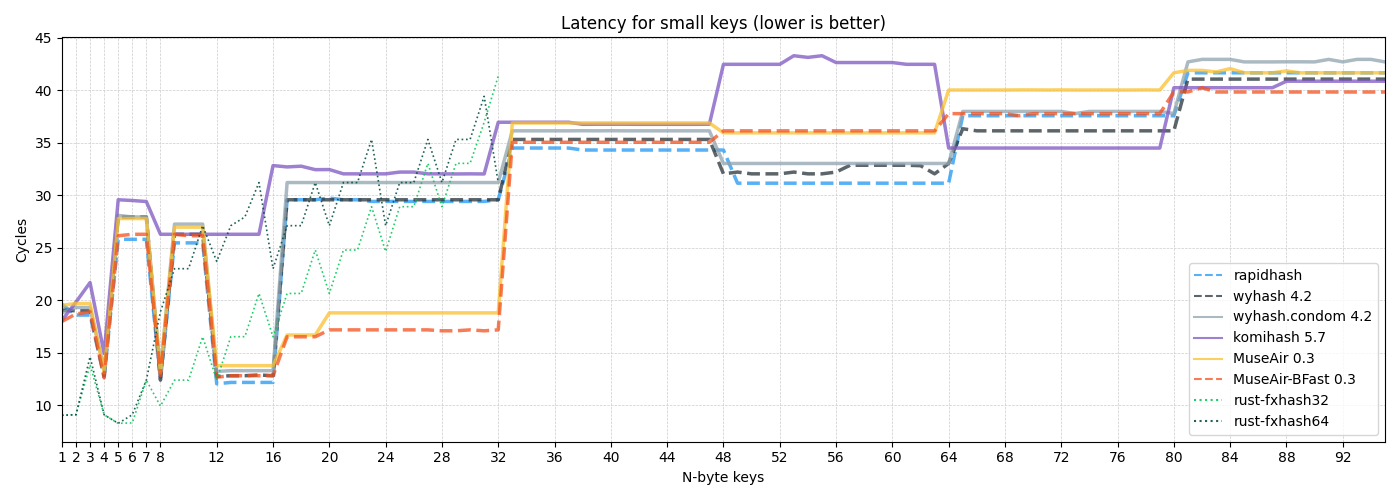
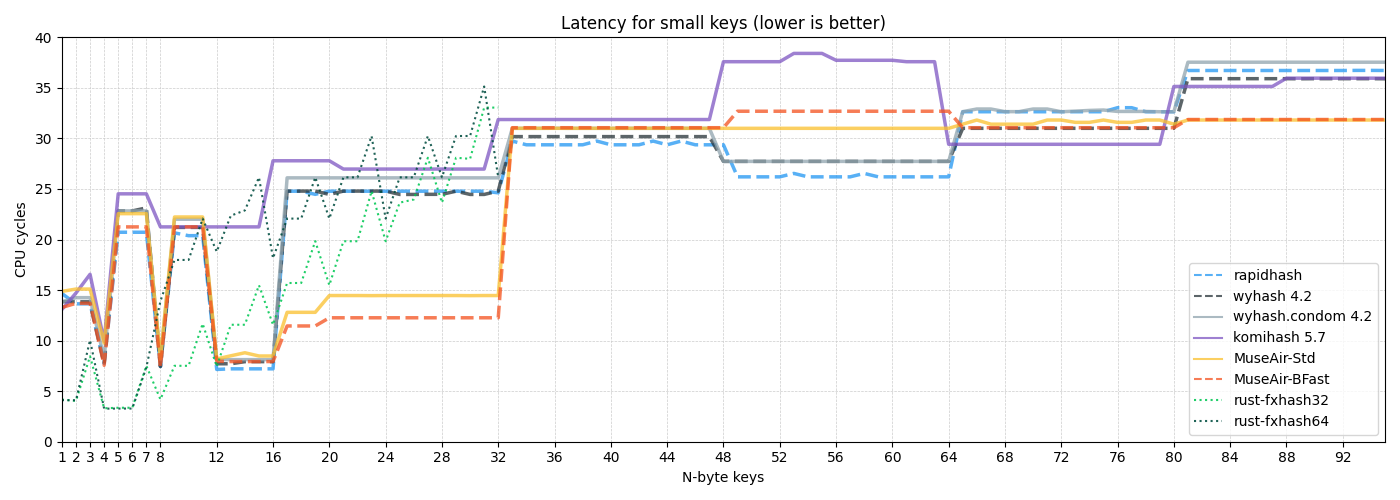
update figures.

diff --git a/results/plot-bench-bulkdatas.py b/results/plot-bench-bulkdatas.py
@@ -1,0 +1,59 @@
+import matplotlib.pyplot as plt
+
+STATS_SMH3_CPP = (
+    ("MuseAir-BFast\n(64 / 128-bit)", (33.3, 33.3), "#F4511E"),
+    ("rapidhash", 31.9, "#01579B"),
+    ("wyhash 4.2", 31.9, "#455A64"),
+    ("MuseAir-Std\n(64 / 128-bit)", (28.5, 30.4), "#FBC02D"),
+    ("komihash 5.7", 25.5, "#7E57C2"),
+    ("wyhash 4.2\n(condom mode)", 25.3, "#90A4AE"),
+)
+
+STATS_CRIT_RS = (
+    ("MuseAir-BFast\n(64 / 128-bit)", (34.3, 32.4), "#F4511E"),
+    ("rapidhash", 29.7, "#01579B"),
+    ("wyhash 4.2", 28.8, "#455A64"),
+    ("MuseAir-Std\n(64 / 128-bit)", (31.4, 31.1), "#FBC02D"),
+    ("komihash 5.10", 26.1, "#7E57C2"),
+    ("wyhash 4.2\n(condom mode)", 23.2, "#90A4AE"),
+)
+
+
+xs = range(0, len(STATS_SMH3_CPP) * 2, 2)
+width = 0.8
+
+
+def plot_and_save(datas, tool, filename):
+    plt.figure(figsize=(7, 4.5))
+    plt.title(f"Throughput for bulk datas (using {tool})")
+    plt.grid(color="#CCC", linestyle="--", linewidth=0.5)
+
+    for i, (_, value, color) in enumerate(datas):
+        if isinstance(value, tuple):
+            plt.bar(xs[i] - width / 2, value[0], width=width, color=color, zorder=3)
+            plt.bar(
+                xs[i] + width / 2,
+                value[1],
+                width=width,
+                color=color,
+                hatch="////",
+                edgecolor="#777",
+                zorder=3,
+            )
+        else:
+            plt.bar(xs[i], value, width=width * 2, color=color, zorder=3)
+
+    plt.xticks(xs, (d[0] for d in datas), fontsize=8)
+
+    plt.ylabel("Throughput (GiB/s)", fontsize=10)
+    plt.yticks(
+        list(range(0, 25, 5)) + list(range(25, 31, 2)) + list(range(31, 37)),
+        fontsize=8,
+    )
+
+    plt.savefig(filename, bbox_inches="tight")
+    plt.clf()
+
+
+plot_and_save(STATS_SMH3_CPP, "SMHasher3", "bench-bulkdatas-smhasher3.png")
+plot_and_save(STATS_CRIT_RS, "Criterion.rs", "bench-bulkdatas-crit.rs.png")

diff --git a/results/plot-bench-smallkeys.py b/results/plot-bench-smallkeys.py
@@ -6,40 +6,40 @@ STATS = (
         "#2196F3",
         "rapidhash",
         "--",
-        "19.61,18.59,18.59,12.70,25.81,25.81,25.81,12.39,25.47,25.47,25.47,12.04,12.17,12.17,12.17,12.17,29.58,29.58,29.58,29.74,29.58,29.58,29.42,29.42,29.42,29.42,29.42,29.42,29.42,29.42,29.42,29.58,34.51,34.51,34.51,34.51,34.51,34.32,34.32,34.32,34.32,34.32,34.32,34.32,34.32,34.32,34.32,34.32,31.16,31.16,31.16,31.16,31.16,31.16,31.16,31.16,31.16,31.16,31.16,31.16,31.16,31.16,31.16,31.16,37.59,37.59,37.59,37.59,37.59,37.59,37.59,37.59,37.59,37.59,37.59,37.59,37.59,37.59,37.59,37.59,41.68,41.68,41.68,41.68,41.68,41.68,41.68,41.68,41.68,41.68,41.68,41.68,41.68,41.68,41.68",
+        "14.66,13.64,13.64,7.74,20.72,20.72,20.72,7.44,20.66,20.38,20.39,7.15,7.21,7.21,7.21,7.21,24.78,24.78,24.47,24.78,24.78,24.78,24.78,24.78,24.78,24.78,24.78,24.78,24.78,24.78,24.78,24.62,29.74,29.37,29.37,29.37,29.37,29.37,29.74,29.37,29.37,29.37,29.74,29.37,29.74,29.37,29.37,29.37,26.20,26.20,26.20,26.20,26.54,26.20,26.20,26.20,26.20,26.54,26.20,26.20,26.20,26.20,26.20,26.20,32.64,32.64,32.64,32.64,32.64,32.64,32.64,32.64,32.64,32.64,32.64,33.04,33.04,32.64,32.64,32.64,36.72,36.72,36.72,36.72,36.72,36.72,36.72,36.72,36.72,36.72,36.72,36.72,36.73,36.73,36.72",
     ),
     (
         "#263238",
         "wyhash 4.2",
         "--",
-        "19.06,19.00,19.00,12.81,27.94,27.94,27.94,12.39,26.29,26.29,26.29,12.74,12.81,12.81,12.88,12.81,29.58,29.58,29.58,29.58,29.58,29.58,29.58,29.58,29.58,29.58,29.58,29.58,29.58,29.58,29.58,29.58,35.33,35.33,35.33,35.33,35.33,35.33,35.33,35.33,35.33,35.33,35.33,35.33,35.33,35.33,35.33,32.05,32.22,32.05,32.05,32.05,32.22,32.05,32.05,32.22,32.87,32.87,32.87,32.87,32.87,32.83,32.05,33.04,36.35,36.15,36.15,36.15,36.15,36.15,36.15,36.15,36.15,36.15,36.15,36.15,36.15,36.15,36.15,36.15,41.08,41.08,41.08,41.08,41.08,41.08,41.08,41.08,41.08,41.08,41.08,41.08,41.08,41.08,41.08",
+        "13.85,13.84,13.84,7.71,22.83,22.83,23.13,7.44,21.20,21.20,21.20,7.71,7.71,7.92,7.92,7.92,24.79,24.79,24.79,24.46,24.79,24.79,24.79,24.79,24.46,24.46,24.47,24.47,24.78,24.46,24.46,24.79,30.18,30.18,30.18,30.18,30.18,30.18,30.18,30.18,30.18,30.18,30.18,30.18,30.18,30.18,30.18,27.73,27.73,27.73,27.73,27.73,27.73,27.73,27.73,27.73,27.73,27.73,27.73,27.73,27.73,27.73,27.73,27.73,31.00,31.00,31.00,31.00,31.00,31.00,31.00,31.00,31.00,31.00,31.00,31.00,31.00,31.00,31.00,31.00,35.91,35.91,35.91,35.91,35.91,35.91,35.91,35.91,35.90,35.91,35.91,35.91,35.91,35.91,35.90",
     ),
     (
         "#90A4AE",
         "wyhash.condom 4.2",
         "-",
-        "18.80,19.31,19.31,13.42,28.09,27.94,27.94,13.22,27.26,27.26,27.26,13.22,13.29,13.29,13.29,13.29,31.22,31.22,31.22,31.22,31.22,31.22,31.22,31.22,31.22,31.22,31.22,31.22,31.22,31.22,31.22,31.22,36.15,36.15,36.15,36.15,36.15,36.16,36.15,36.16,36.15,36.15,36.15,36.15,36.15,36.15,36.15,33.04,33.04,33.04,33.04,33.04,33.04,33.04,33.04,33.04,33.04,33.04,33.04,33.04,33.04,33.04,33.04,33.04,38.00,38.00,38.00,38.00,38.00,38.00,38.00,38.00,37.80,38.00,38.00,38.00,38.00,38.00,38.00,37.80,42.72,42.96,42.96,42.96,42.72,42.72,42.72,42.73,42.73,42.72,42.96,42.72,42.96,42.96,42.72",
+        "13.84,14.25,14.25,8.24,22.83,22.83,22.83,8.12,22.01,22.01,22.01,8.12,8.12,8.12,8.12,8.12,26.10,26.10,26.10,26.10,26.10,26.10,26.10,26.10,26.10,26.10,26.10,26.10,26.10,26.10,26.10,26.10,31.00,31.00,31.00,31.01,31.00,31.00,31.00,31.00,31.00,31.00,31.00,31.00,31.00,31.00,31.00,27.73,27.73,27.73,27.73,27.73,27.73,27.73,27.73,27.73,27.73,27.73,27.73,27.73,27.73,27.73,27.73,27.73,32.65,32.91,32.91,32.65,32.65,32.91,32.91,32.64,32.70,32.77,32.81,32.67,32.67,32.67,32.64,32.64,37.54,37.54,37.54,37.54,37.54,37.54,37.54,37.54,37.54,37.54,37.54,37.54,37.54,37.54,37.54",
     ),
     (
         "#7E57C2",
         "komihash 5.7",
         "-",
-        "18.08,19.83,21.69,14.93,29.58,29.51,29.41,26.29,26.29,26.29,26.29,26.29,26.29,26.29,26.29,32.84,32.71,32.78,32.45,32.46,32.05,32.05,32.05,32.05,32.22,32.22,32.05,32.05,32.04,32.05,32.04,36.97,36.97,36.97,36.97,36.97,36.97,36.77,36.78,36.78,36.78,36.77,36.77,36.77,36.77,36.77,36.78,42.49,42.49,42.49,42.49,42.49,43.31,43.15,43.31,42.66,42.66,42.66,42.66,42.66,42.49,42.49,42.49,34.51,34.51,34.51,34.51,34.51,34.51,34.51,34.51,34.51,34.51,34.51,34.51,34.51,34.51,34.51,34.51,40.26,40.26,40.26,40.26,40.26,40.26,40.26,40.26,40.88,40.88,40.88,40.88,40.88,40.88,40.88,40.88",
+        "13.08,14.71,16.56,9.93,24.52,24.52,24.52,21.25,21.25,21.25,21.25,21.25,21.25,21.25,21.25,27.79,27.79,27.79,27.79,27.79,26.97,26.97,26.97,26.97,26.97,26.97,26.97,26.97,26.97,26.97,26.97,31.87,31.87,31.87,31.87,31.87,31.87,31.87,31.87,31.87,31.87,31.87,31.87,31.87,31.87,31.87,31.87,37.59,37.59,37.59,37.59,37.59,38.41,38.41,38.41,37.73,37.73,37.73,37.73,37.73,37.59,37.59,37.59,29.42,29.42,29.42,29.42,29.42,29.42,29.42,29.42,29.42,29.42,29.42,29.42,29.42,29.42,29.42,29.42,35.14,35.14,35.14,35.14,35.14,35.14,35.14,35.14,35.96,35.96,35.96,35.96,35.96,35.96,35.96,35.96",
     ),
 )
 
 STATS_ = (
     (
         "#FBC02D",
-        "MuseAir 0.3",
+        "MuseAir-Std",
         "-",
-        "19.52,19.69,19.69,13.08,27.79,27.79,27.79,13.08,26.97,26.97,26.97,13.77,13.77,13.77,13.77,13.77,16.69,16.69,16.69,18.80,18.80,18.80,18.80,18.80,18.80,18.80,18.80,18.80,18.80,18.80,18.80,18.80,36.90,36.90,36.90,36.90,36.90,36.90,36.90,36.90,36.90,36.90,36.90,36.90,36.90,36.90,36.90,35.96,35.96,35.96,35.96,35.96,35.96,35.96,35.96,35.96,35.96,35.96,35.96,35.96,35.96,35.96,35.96,40.04,40.04,40.04,40.04,40.04,40.05,40.05,40.04,40.05,40.04,40.04,40.04,40.04,40.04,40.05,40.04,41.68,41.91,41.91,41.76,42.08,41.69,41.68,41.68,41.86,41.68,41.68,41.68,41.68,41.68,41.68,41.68",
+        "14.87,15.10,15.10,9.76,22.56,22.56,22.56,8.23,22.23,22.23,22.23,8.19,8.50,8.80,8.48,8.48,12.80,12.80,12.80,14.46,14.46,14.46,14.45,14.46,14.46,14.46,14.46,14.46,14.46,14.45,14.46,14.46,31.00,31.00,31.00,31.00,31.00,31.00,31.00,31.00,31.00,31.00,31.00,31.00,31.00,31.00,31.00,31.00,31.00,31.00,31.00,31.00,31.00,31.00,31.00,31.00,31.00,31.00,31.00,31.00,31.00,31.00,31.00,31.00,31.41,31.82,31.41,31.41,31.41,31.41,31.82,31.82,31.59,31.59,31.82,31.59,31.59,31.82,31.82,31.41,31.82,31.82,31.82,31.82,31.82,31.82,31.82,31.82,31.82,31.82,31.82,31.82,31.82,31.82,31.82",
     ),
     (
         "#F4511E",
-        "MuseAir-BFast 0.3",
+        "MuseAir-BFast",
         "--",
-        "17.98,18.70,18.90,12.60,26.15,26.29,26.29,12.81,26.29,26.15,26.15,12.67,12.81,12.81,12.81,12.81,16.52,16.52,16.52,17.18,17.18,17.18,17.18,17.18,17.18,17.18,17.18,17.09,17.09,17.18,17.09,17.18,35.06,35.06,35.06,35.06,35.06,35.06,35.06,35.06,35.06,35.06,35.06,35.06,35.06,35.06,35.06,36.15,36.15,36.15,36.15,36.15,36.15,36.15,36.15,36.15,36.15,36.15,36.15,36.15,36.15,36.15,36.15,37.79,37.79,37.79,37.79,37.79,37.59,37.79,37.79,37.79,37.79,37.79,37.79,37.79,37.79,37.79,37.79,39.85,39.86,40.26,39.85,39.85,39.85,39.85,39.85,39.85,39.85,39.85,39.85,39.85,39.85,39.85,39.85",
+        "13.28,13.69,13.69,7.56,21.25,21.25,21.25,7.36,21.25,21.25,21.25,7.97,7.93,7.93,7.93,7.93,11.45,11.45,11.45,12.26,12.26,12.26,12.26,12.26,12.26,12.26,12.26,12.26,12.26,12.26,12.26,12.26,31.06,31.06,31.06,31.06,31.06,31.06,31.06,31.06,31.06,31.06,31.06,31.06,31.06,31.06,31.06,31.06,32.69,32.69,32.69,32.69,32.69,32.69,32.69,32.69,32.69,32.69,32.69,32.69,32.69,32.69,32.69,32.69,31.06,31.06,31.06,31.06,31.06,31.06,31.06,31.06,31.06,31.06,31.06,31.06,31.06,31.06,31.06,31.06,31.87,31.87,31.87,31.87,31.87,31.87,31.87,31.87,31.87,31.87,31.87,31.87,31.87,31.87,31.87",
     ),
 )
 
@@ -48,13 +48,13 @@ STATS2 = (
         "#00C853",
         "rust-fxhash32",
         ":",
-        "9.04,9.09,13.84,9.09,8.27,8.31,12.39,9.91,12.39,12.39,16.52,12.39,16.53,16.53,20.65,16.52,20.65,20.65,24.79,20.65,24.79,24.79,28.92,24.65,28.92,28.92,33.05,28.92,33.05,33.05,36.97,41.36",
+        "4.17,4.04,8.45,3.31,3.36,3.36,7.51,4.18,7.51,7.51,11.67,7.44,11.57,11.57,15.48,11.57,15.70,15.70,19.84,15.48,19.83,19.83,24.79,19.83,23.65,23.96,28.09,23.65,28.09,27.98,33.05,33.05",
     ),
     (
         "#004D40",
         "rust-fxhash64",
         ":",
-        "9.04,9.09,14.62,9.09,8.27,9.09,12.40,18.90,23.01,23.01,27.11,23.70,27.11,27.94,31.22,23.01,27.11,27.11,31.22,27.11,31.22,31.22,35.33,27.11,31.22,31.22,35.33,31.22,35.33,35.33,39.44,31.22",
+        "4.11,4.10,10.05,3.27,3.28,3.28,7.36,13.90,17.98,17.98,22.07,18.80,22.36,22.88,26.15,18.15,22.07,22.07,26.15,22.07,26.15,26.15,30.24,22.07,26.15,26.15,30.24,26.15,30.24,30.24,35.14,26.15",
     ),
 )
 
@@ -77,14 +77,15 @@ for color, name, dashed, dat in STATS2:
         dashed,
         c=color + "E0",
         label=name,
-        linewidth=1.2,
+        linewidth=1.5,
     )
 
 plt.setp(plt.legend().get_lines(), linewidth=1.5)
 plt.xlim(1, 95)
 plt.xticks(list(range(1, 8)) + list(range(8, 96, 4)))
 plt.xlabel("N-byte keys")
-plt.ylabel("Cycles")
+plt.ylim(0, 40)
+plt.ylabel("CPU cycles")
 plt.grid(color="#CCC", linestyle="--", linewidth=0.5)
 plt.title("Latency for small keys (lower is better)")
 plt.tight_layout()